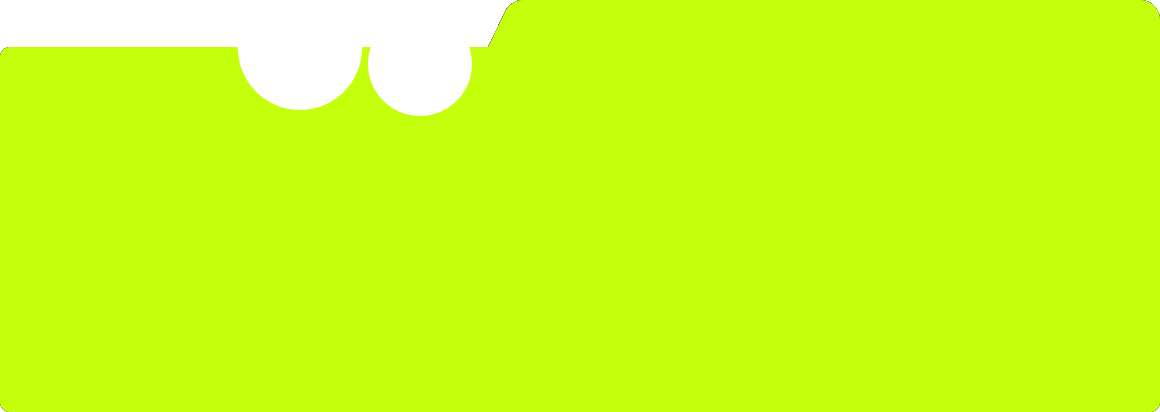
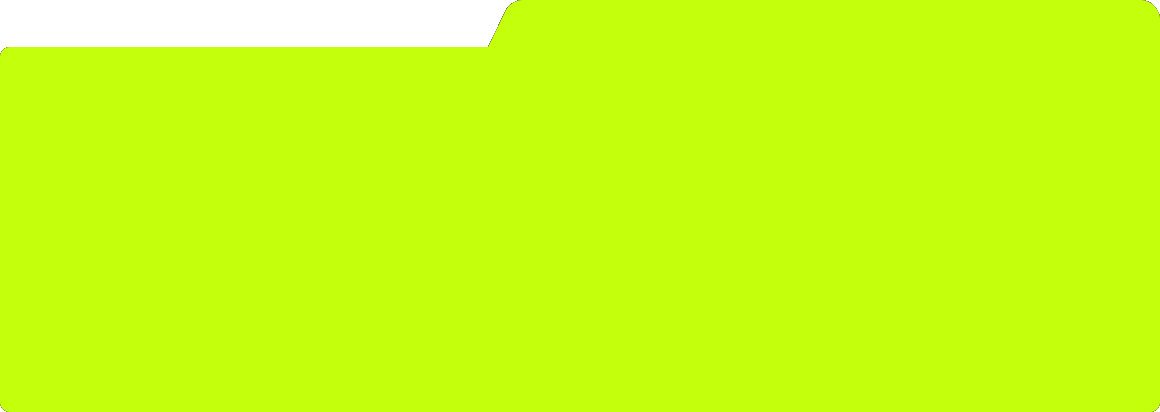
Remove quote circles from card
Drop the two white quote circles entirely (both the baked-in art and
the mobile CSS fallback). Regenerate card-bg.png as the clean lime
stepped shape with no circles.

Claude-Session: https://claude.ai/code/session_019grBuUZAa98aQBa2D2qsna

Changed region(s): [[0.1862, 0.1165, 0.4345, 0.2913]]

diff --git a/src/components/Cases.module.css b/src/components/Cases.module.css
@@ -167,34 +167,6 @@
   padding: 46px 50px 40px 14px;
 }
 
-/* Quote circles: baked into the card art on desktop; rendered for the
-   plain CSS card on mobile only. */
-.quoteMark {
-  display: none;
-  position: absolute;
-  z-index: 2;
-  top: -58px;
-  left: -26px;
-  width: 96px;
-  height: 96px;
-  border-radius: 50%;
-  background: var(--white);
-  pointer-events: none;
-  box-shadow: 0 16px 30px -18px rgba(7, 6, 40, 0.4);
-}
-
-.quoteMark::after {
-  content: "";
-  position: absolute;
-  right: -40px;
-  bottom: -6px;
-  width: 62px;
-  height: 62px;
-  border-radius: 50%;
-  background: var(--white);
-  box-shadow: 0 16px 30px -18px rgba(7, 6, 40, 0.4);
-}
-
 .quote {
   font-family: var(--font-body);
   font-weight: 400;
@@ -305,10 +277,6 @@
     display: none;
   }
 
-  .quoteMark {
-    display: block;
-  }
-
   .photoCol {
     height: 300px;
   }
@@ -328,21 +296,7 @@
 
   .body {
     align-self: stretch;
-    padding: 74px 30px 32px;
-  }
-
-  .quoteMark {
-    top: 10px;
-    left: 24px;
-    width: 58px;
-    height: 58px;
-  }
-
-  .quoteMark::after {
-    right: -24px;
-    bottom: -4px;
-    width: 38px;
-    height: 38px;
+    padding: 36px 30px 32px;
   }
 
   .badgeDot {

diff --git a/src/components/Cases.tsx b/src/components/Cases.tsx
@@ -129,7 +129,6 @@ export default function Cases() {
                     </div>
 
                     <div className={styles.body}>
-                      <span className={styles.quoteMark} aria-hidden="true" />
                       <p className={styles.quote}>{t.quote}</p>
                       <div className={styles.attr}>
                         <span className={styles.role}>{t.role}</span>